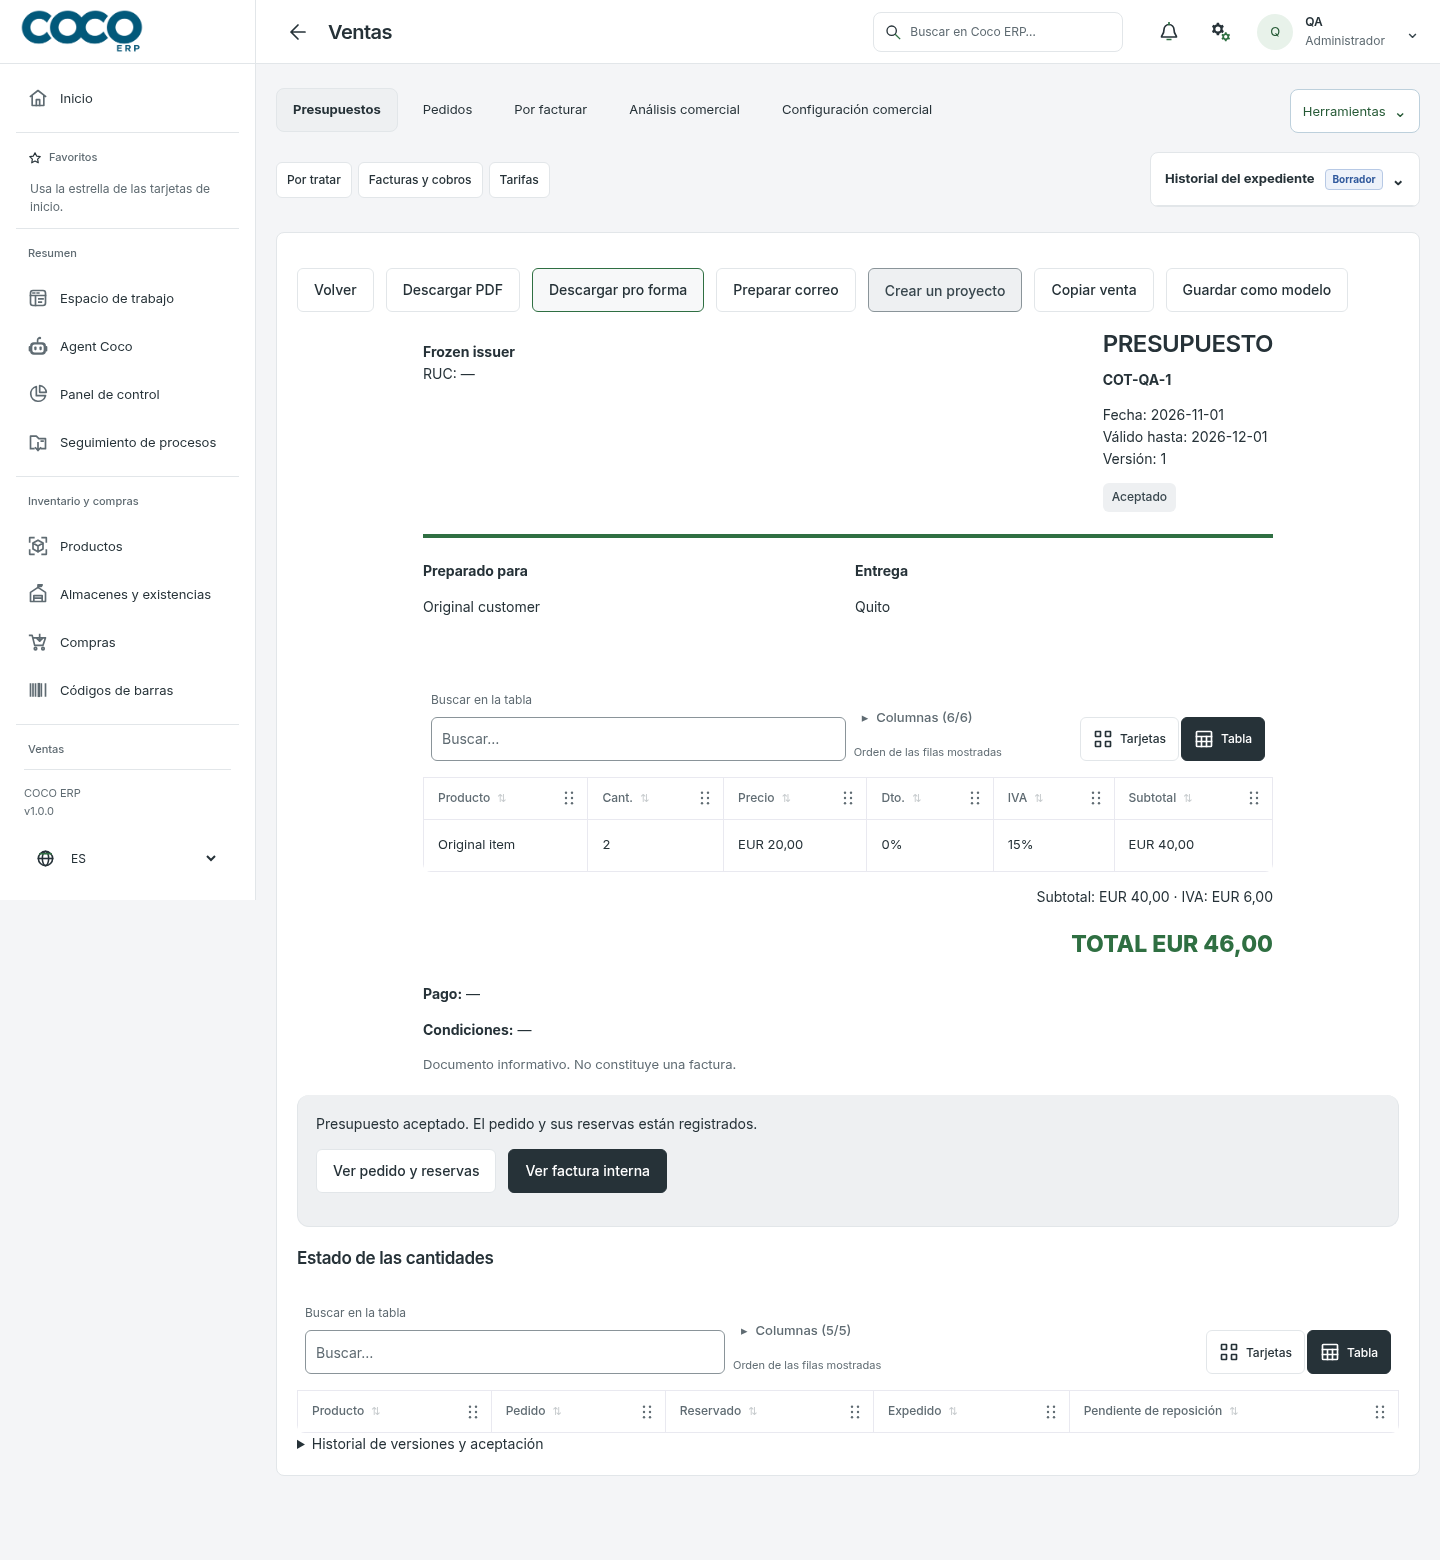
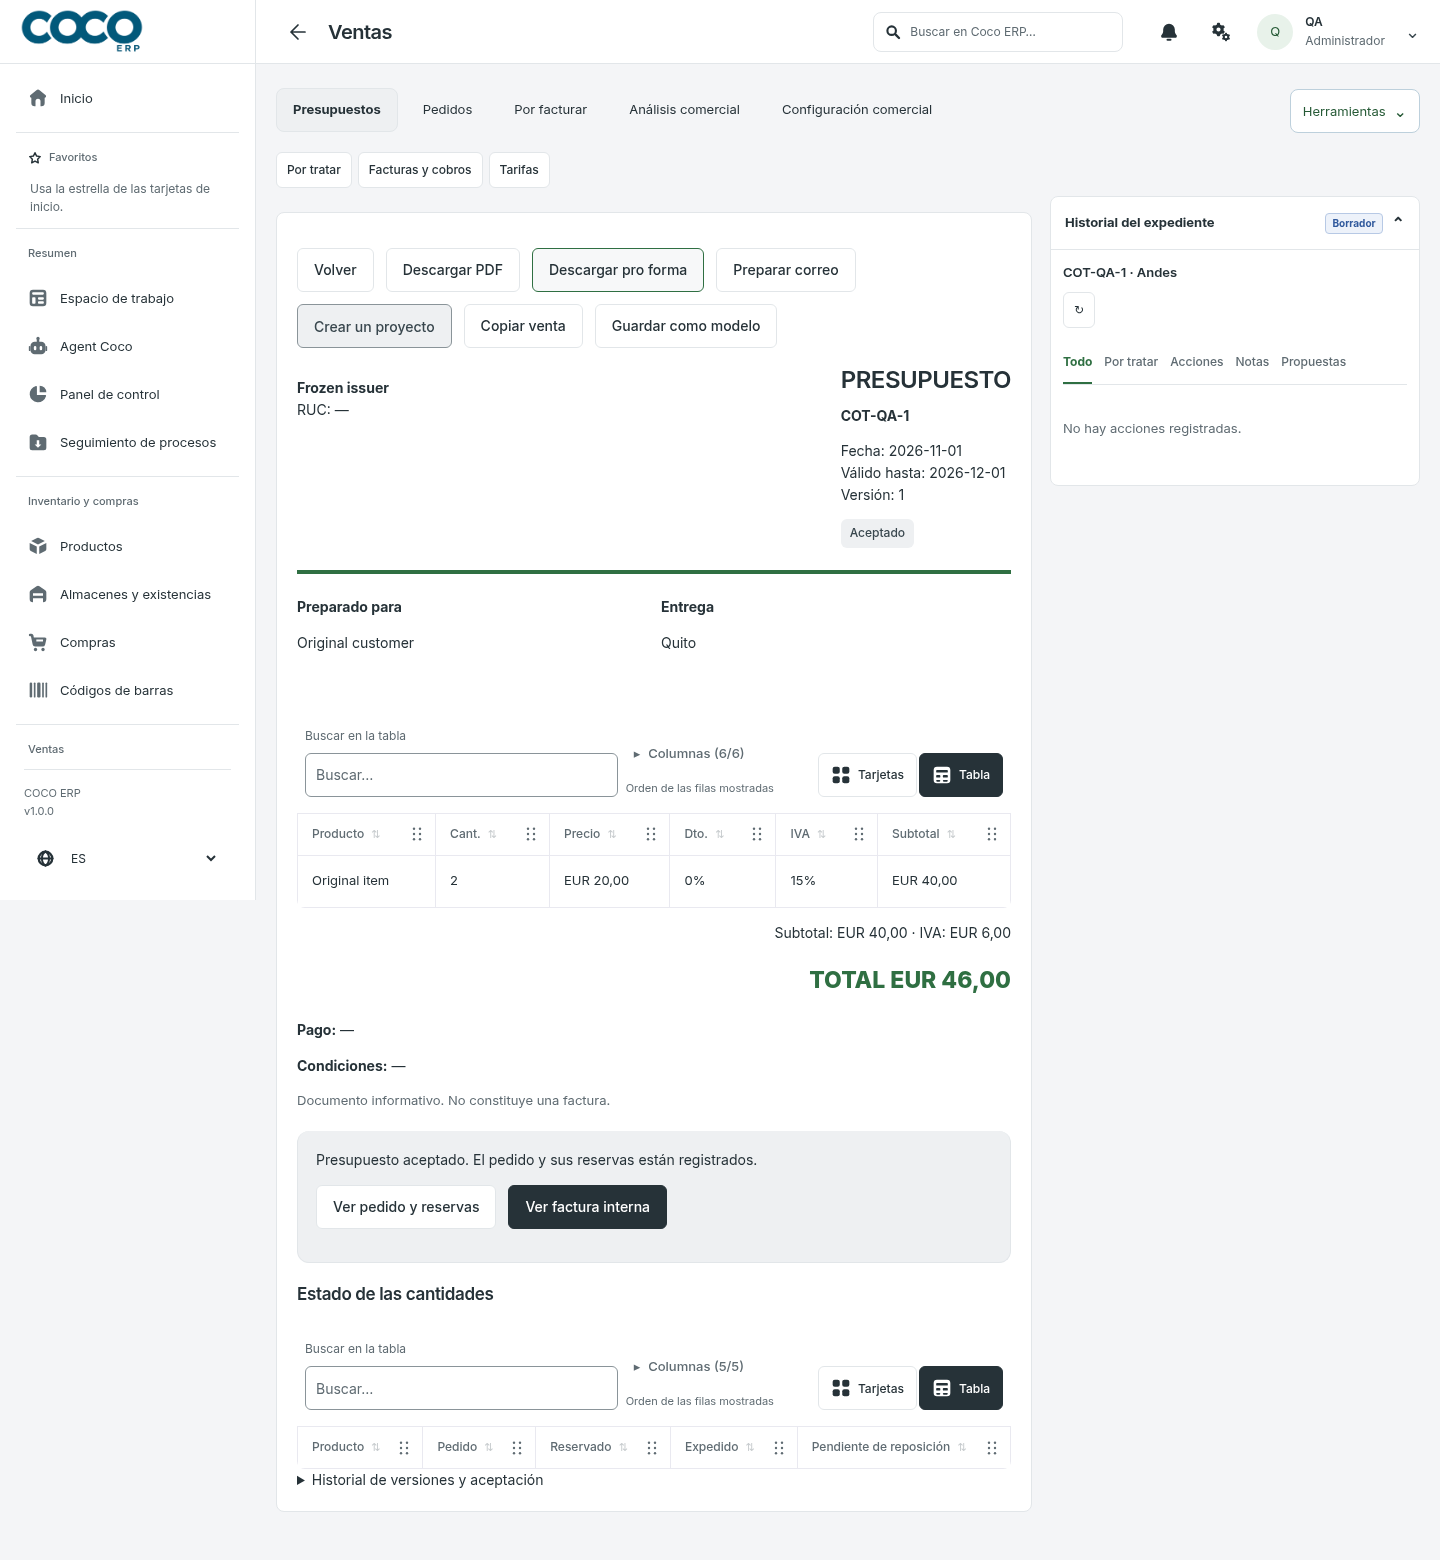
Record integrated UI verification and clarify accounting rollout

diff --git a/replica/community-2026-11-08/build-log.md b/replica/community-2026-11-08/build-log.md
@@ -9,7 +9,7 @@ jetables ; elles ne modifient pas la production.
 | S03 | Remise de ligne en lot et provenance des prix copiés | Implémenté ; validations et document d'origine vérifiés |
 | S04 | Recherche et archivage des modèles avec reprise | Implémenté ; droits, recherche au-delà de 100, idempotence et historique vérifiés |
 | S06 | Comptes, validité et cycle des taxes | Implémenté ; 8 tests serveur et 3 parcours ES/FR/EN réussis |
-| S07 | Comptes comptables des clients et fournisseurs | Implémenté ; 11 tests serveur et parcours FR/ES réussis ; extension EN en validation générale |
+| S07 | Comptes comptables des clients et fournisseurs | Implémenté ; 11 tests serveur et parcours FR/ES/EN réussis |
 
 Le lot Ventes compte huit nouveaux parcours navigateur et deux tests Node.
 Les 89 régressions serveur prioritaires passent : ventes/dossier, comptabilité,
@@ -23,3 +23,7 @@ comme appliquée à la base hébergée.
 
 Écarts structurels restant ouverts dans [features.csv](features.csv), sans
 revendication de parité totale ni score artificiel.
+
+Régression navigateur complémentaire : 58 tests réussis, dont les trois parcours de comptes tiers et les vues comptables existantes. Avec les huit parcours Ventes et trois parcours Taxes, 69 cas distincts ont été vérifiés avant intégration du thème récent. La branche intègre `8569f2e` ; syntaxe, types, documentation, migrations, actifs reproductibles et budgets y sont vérifiés. Les parcours concernés par cette intégration sont revérifiés séparément.
+
+Après intégration de `8569f2e` : **27/27 tests navigateur réussis**, couvrant les 14 nouveaux parcours, les onglets et vues modifiés par main. Les captures S02, S06 et S07 sont actualisées dans `clone-screens/`. Aucune violation Axe ni erreur de console n’a été constatée dans les parcours comptables contrôlés.

diff --git a/docs/modules/accounting.md b/docs/modules/accounting.md
@@ -277,3 +277,17 @@ utilisent uniquement des bases isolées.
 
 Vérification : `tests/accounting-tax-lifecycle-db.test.cjs` et
 `tests/accounting-tax-lifecycle.spec.js` (FR/ES/EN, téléphone et ordinateur).
+
+## Comptes des clients et fournisseurs
+
+**Comptabilité → Configuration → Comptes des contacts** recherche les clients
+et fournisseurs par pages de 50 et permet de choisir un compte de créances ou
+de dettes dédié, ou le paramétrage général. Ce choix s’applique aux nouvelles
+pièces ; les paiements, avoirs et corrections conservent le compte de la facture
+d’origine. Une affectation d’acompte entre comptes crée un transfert équilibré
+sans nouveau mouvement de trésorerie. Les comptes bancaires et d’attente ne
+peuvent pas être utilisés comme comptes tiers. Les comptes produits/catégories
+restent un écart distinct.
+
+Les droits, les trois modes de paiement, les acomptes historiques, l’historique
+et les limites sont détaillés dans le [contrat des comptes tiers](../../replica/community-2026-11-08/accounting-partner-accounts.md).

diff --git a/docs/modules/sales-workflow.md b/docs/modules/sales-workflow.md
@@ -178,3 +178,7 @@ l'archivage avec reprise, les prix copiés et les remises avec taux mixtes.
 La parité exhaustive avec Odoo n'est pas revendiquée : les paiements en ligne,
 signatures, programmes de fidélité et autres écarts restent à distinguer dans la
 matrice Replica.
+
+La [matrice Community du 8 novembre](../../replica/community-2026-11-08/features.csv)
+et l’[audit des ventes restantes](../../replica/community-2026-11-08/remaining-sales.md)
+distinguent les fonctions livrées, partielles, absentes et retirées par choix produit.
